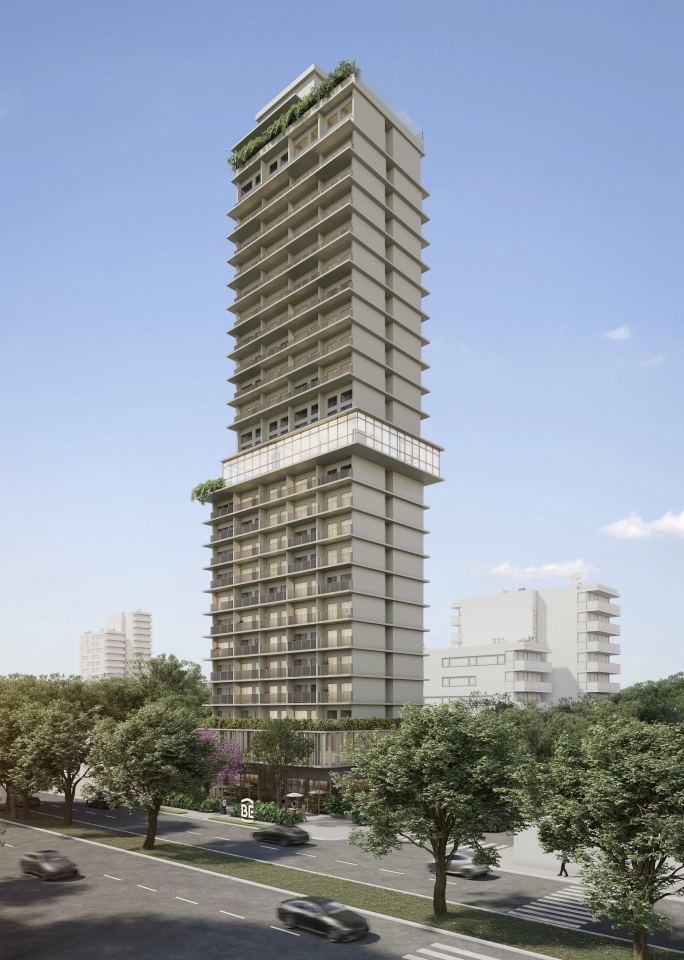
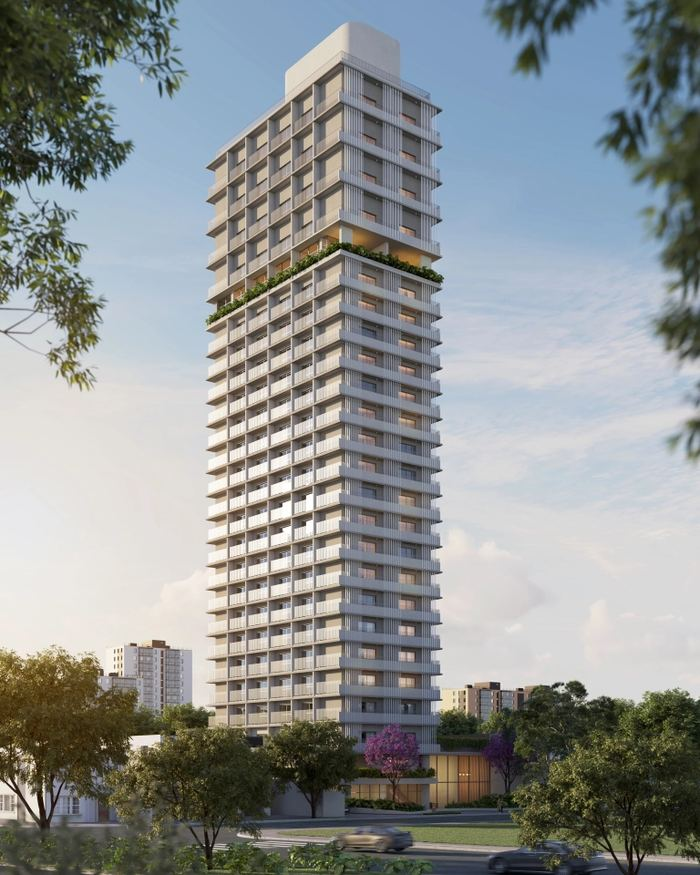
BE: corrige fotos (Bonifácio, São Paulo, Dumont) e deixa o BE Modelo em cinza
Claude-Session: https://claude.ai/code/session_01QJa3EF9FbuaRh1Muhs96sf

diff --git a/index.html b/index.html
@@ -336,10 +336,10 @@ const CONFIG = {
   empreendimentos: {
     BE01:     { codigo: 'BE01', nome: 'BE Garden',    paleta: '#46B276', foto: 'fotos/BE01.jpg', link: '/sites/BE01-BEGARDEN/SitePages/BEGARDEN.aspx' },
     BE02:     { codigo: 'BE02', nome: 'BE Deodoro',   paleta: '#F75F01', foto: 'fotos/BE02.jpg', link: '/sites/BE02-BEDEODORO/SitePages/BEDEODORO.aspx' },
-    BE03:     { codigo: 'BE03', nome: 'BE Bonifácio', paleta: '#FCBF44', foto: '', link: '/sites/BE03-BEBONIFCIO/SitePages/BEBONIFACIO.aspx' },
+    BE03:     { codigo: 'BE03', nome: 'BE Bonifácio', paleta: '#FCBF44', foto: 'fotos/BE03.jpg', link: '/sites/BE03-BEBONIFCIO/SitePages/BEBONIFACIO.aspx' },
     BE06:     { codigo: 'BE06', nome: 'BE São Paulo', paleta: '#7247F6', foto: 'fotos/BE06.jpg', link: '/sites/BE06-BeSoPaulo/SitePages/BESAOPAULO.aspx' },
     BE09:     { codigo: 'BE09', nome: 'BE Dumont',    paleta: '#992C1A', foto: 'fotos/BE09.jpg', link: '/sites/BE09-BEDUMONT/SitePages/BEDUMONT.aspx' },
-    BEMODELO: { codigo: 'BE',   nome: 'BE Modelo',    paleta: '#111111', foto: 'fotos/BEMODELO.jpg', link: '/sites/BE-MODELO/SitePages/BEMODELO.aspx' }
+    BEMODELO: { codigo: 'BE',   nome: 'BE Modelo',    paleta: '#C8C8C8', foto: '', semTexto: true, link: '/sites/BE-MODELO/SitePages/BEMODELO.aspx' }
   },
   times: {
     ENGO:         { nome: 'ENGO',         empresa: 'OBRAS',      okr: 'ENGO',      link: '/sites/DELTABRAVOOBRAS/SitePages/ENGO.aspx' },
@@ -1033,7 +1033,7 @@ function renderSharepoint(raiz) {
     const emps = (e.empreendimentos || []).map(k => {
       const em = CONFIG.empreendimentos[k]; if (!em) return '';
       return `<a class="ec" href="${esc(urlSP(em.link))}" target="_top" style="--p:${esc(em.paleta)}">
-        <div class="ec-ft" ${em.foto ? `style="background-image:url('${esc(em.foto)}')"` : ''}>${em.foto ? '' : `<span>${esc(em.codigo)}</span>`}</div>
+        <div class="ec-ft" ${em.foto ? `style="background-image:url('${esc(em.foto)}')"` : ''}>${em.foto || em.semTexto ? '' : `<span>${esc(em.codigo)}</span>`}</div>
         <div class="ec-nm"><span>${esc(em.nome)}</span><b>→</b></div></a>`;
     }).join('');
     let grupo = '';
